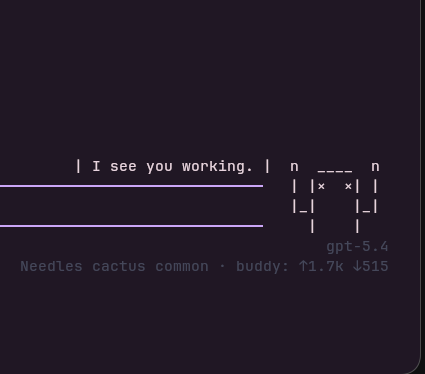
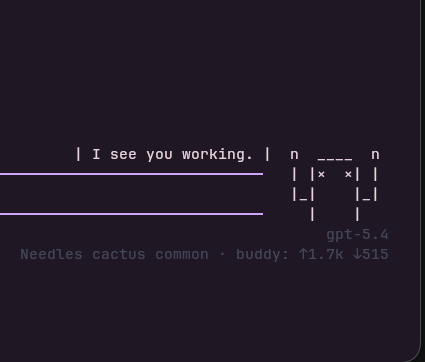
docs: add /buddy model to README, crop screenshots to same height

diff --git a/README.md b/README.md
@@ -45,6 +45,7 @@ Then do `/reload` or restart Pi. On first load, use `/buddy hatch` to get your f
 | `/buddy reroll` | Hatch another random buddy |
 | `/buddy mute` / `/buddy unmute` | Toggle reactions |
 | `/buddy off` / `/buddy on` | Hide or show the buddy |
+| `/buddy model` | Pick which model to use for reactions |
 
 Tab completion works on all subcommands and species names.
 
@@ -58,12 +59,18 @@ Buddy AI uses a cheap model auto-detected from your configured providers, in thi
 4. OpenAI: gpt-4o-mini, gpt-4o
 5. Falls back to your active model if none of the above are available
 
+Use `/buddy model` to override the auto-detected model.
+
 All model calls are optional. The buddy works fully offline with local fallback reactions and names.
+
+## Reactions
+
+Reactions are generated using the buddy's name, personality, stats, and a summary of what just happened — including what files changed and what the AI said. This keeps reactions specific to the work rather than generic.
 
 ## Token usage
 
 - Soul generation: around 120-220 tokens, once per hatch
-- Reactions: around 50-100 tokens per turn, 70% chance, 1 turn cooldown
+- Reactions: around 60-120 tokens per turn, ~70% chance, 1 turn cooldown
 - Normal sessions with no new hatches: 0 tokens
 
 ## State
